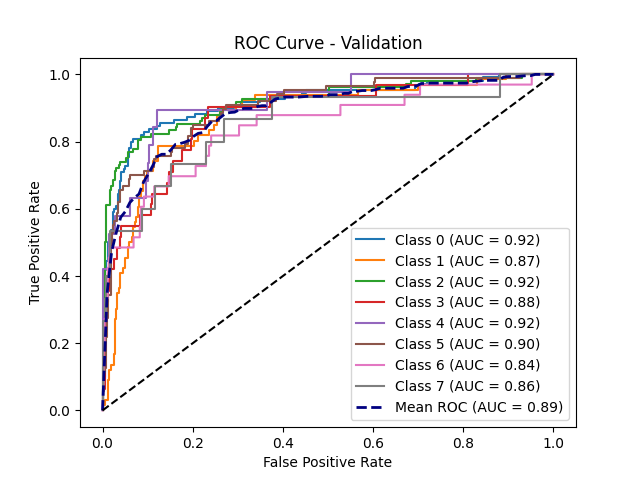
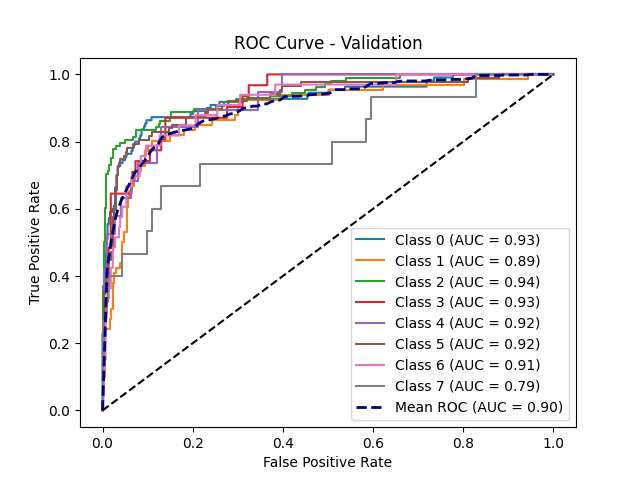
resnet18, transformer final layer

diff --git a/fusion_models_multistage3.py b/fusion_models_multistage3.py
@@ -170,7 +170,7 @@ class MultiStageProgressiveFusionModel(nn.Module):
                  num_modalities=3,
                  fusion_start_stage=2,
                  fusion_block_type= 'crossattention', # 'attention',  # or
-                 use_auxiliary_heads=True, classifier_type = "se"):
+                 use_auxiliary_heads=True, classifier_type = "transformer"):
         super().__init__()
 
         self.num_modalities = num_modalities
